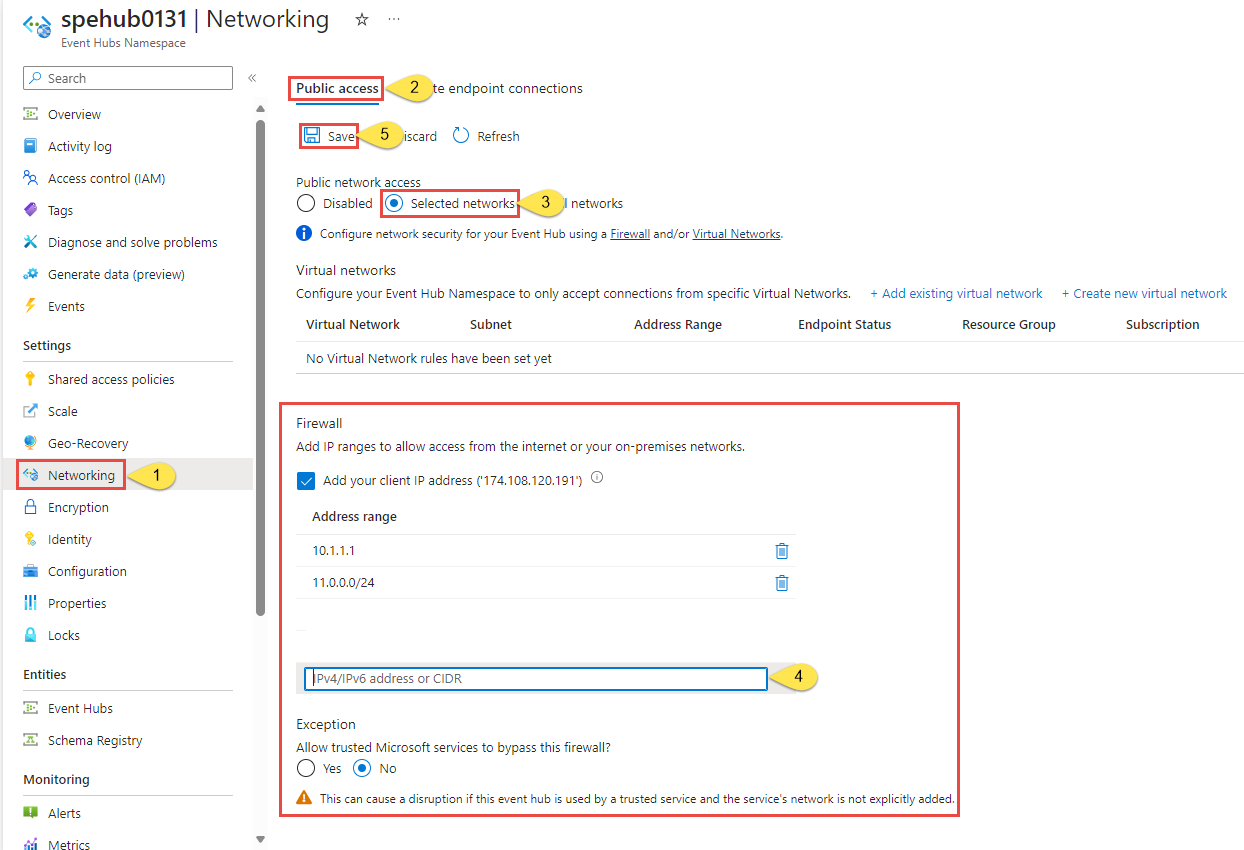
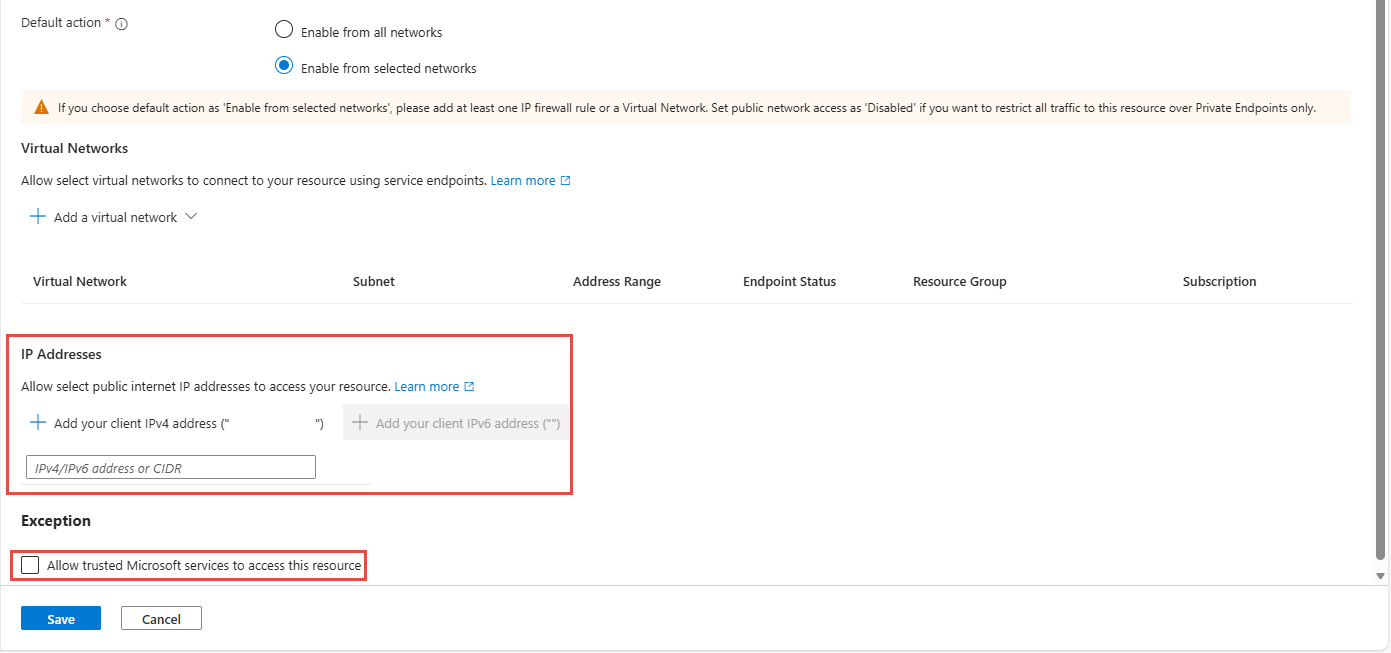
Event Hubs - Networking page updates

diff --git a/articles/event-hubs/event-hubs-ip-filtering.md b/articles/event-hubs/event-hubs-ip-filtering.md
@@ -1,9 +1,9 @@
 ---
 title: Configure IP Firewall Rules for Azure Event Hubs Namespaces
-description: Learn how to configure IP firewall rules for Azure Event Hubs namespaces to restrict access from specific IP addresses and CIDR ranges using Azure portal, CLI, or PowerShell.
+description: Learn how to configure IP firewall rules for Azure Event Hubs namespaces to restrict access to specific IP addresses and enhance your network security.
 #customer intent: As a network administrator, I want to configure IP firewall rules for my Azure Event Hubs namespace so that I can restrict access to only specific IP addresses and improve security
 ms.topic: how-to
-ms.date: 07/25/2025
+ms.date: 01/30/2026
 ms.custom:
   - devx-track-azurepowershell, devx-track-azurecli
   - ai-gen-docs-bap
@@ -14,55 +14,63 @@ ms.custom:
 ---
 
 # Allow access to Azure Event Hubs namespaces from specific IP addresses or ranges
-By default, Event Hubs namespaces are accessible from internet as long as the request comes with valid authentication and authorization. With IP firewall, you can restrict it further to only a set of IPv4 and IPv6 addresses or address ranges in [CIDR (Classless Inter-Domain Routing)](https://en.wikipedia.org/wiki/Classless_Inter-Domain_Routing) notation.
 
-This feature is helpful in scenarios in which Azure Event Hubs should be only accessible from certain well-known sites. Firewall rules enable you to configure rules to accept traffic originating from specific IPv4 and IPv6 addresses. For example, if you use Event Hubs with [Azure Express Route][express-route], you can create a **firewall rule** to allow traffic from only your on-premises infrastructure IP addresses. 
+By default, users can access Event Hubs namespaces from the internet as long as the request comes with valid authentication and authorization. By using the IP firewall, you can restrict access to only a set of IPv4 and IPv6 addresses or address ranges in [CIDR (Classless Inter-Domain Routing)](https://en.wikipedia.org/wiki/Classless_Inter-Domain_Routing) notation.
+
+This feature is helpful in scenarios where Azure Event Hubs should be accessible only from certain well-known sites. Firewall rules enable you to configure rules to accept traffic originating from specific IPv4 and IPv6 addresses. For example, if you use Event Hubs with [Azure Express Route][express-route], you can create a **firewall rule** to allow traffic from only your on-premises infrastructure IP addresses. 
 
 ## IP firewall rules
-You specify IP firewall rules at the Event Hubs namespace level. So, the rules apply to all connections from clients using any supported protocol. Any connection attempt from an IP address that doesn't match an allowed IP rule on the Event Hubs namespace is rejected as unauthorized. The response doesn't mention the IP rule. IP filter rules are applied in order, and the first rule that matches the IP address determines the accept or reject action.
+
+You specify IP firewall rules at the Event Hubs namespace level. The rules apply to all connections from clients using any supported protocol. The Event Hubs namespace rejects any connection attempt from an IP address that doesn't match an allowed IP rule as unauthorized. The response doesn't mention the IP rule. IP firewall rules are applied in order, and the first rule that matches the IP address determines the accept or reject action.
 
 
 ## Important points
+
 - This feature isn't supported in the **basic** tier.
-- Turning on firewall rules for your Event Hubs namespace blocks incoming requests by default, unless requests originate from a service operating from allowed public IP addresses. Requests that are blocked include the requests from other Azure services, from the Azure portal, from logging and metrics services, and so on. As an exception, you can allow access to Event Hubs resources from certain **trusted services** even when the IP filtering is enabled. For a list of trusted services, see [Trusted Microsoft services](#trusted-microsoft-services).
-- Specify **at least one IP firewall rule or virtual network rule** for the namespace to allow traffic only from the specified IP addresses or subnet of a virtual network. If there are no IP and virtual network rules, the namespace can be accessed over the public internet (using the access key).  
+- When you turn on firewall rules for your Event Hubs namespace, the firewall blocks incoming requests by default, unless requests originate from a service operating from allowed public IP addresses. Blocked requests include the requests from other Azure services, from the Azure portal, from logging and metrics services, and so on. As an exception, you can allow access to Event Hubs resources from certain **trusted services** even when the IP filtering is enabled. For a list of trusted services, see [Trusted Microsoft services](#trusted-microsoft-services).
+- Specify **at least one IP firewall rule or virtual network rule** for the namespace to allow traffic only from the specified IP addresses or subnet of a virtual network. If there are no IP and virtual network rules, users can access the namespace over the public internet (by using the access key).  
 
 
-## Configure firewall rules using Azure portal
+## Configure firewall rules using the Azure portal
 
-When creating a namespace, you can either allow public only (from all networks) or private only (only via private endpoints) access to the namespace. Once the namespace is created, you can allow access from specific IP addresses or from specific virtual networks (using network service endpoints). 
+When creating a namespace, you can either allow public only (from all networks) or private only (only via private endpoints) access to the namespace. Once you create the namespace, you can allow access from specific IP addresses or from specific virtual networks (by using network service endpoints). 
 
 ### Configure public access when creating a namespace
 To enable public access, select **Public access** on the **Networking** page of the namespace creation wizard. 
 
-:::image type="content" source="./media/event-hubs-firewall/create-namespace-public-access.png" alt-text="Screenshot showing the Networking page of the Create namespace wizard with Public access option selected.":::
+:::image type="content" source="./media/event-hubs-firewall/create-namespace-public-access.png" alt-text="Screenshot showing the Networking page of the Create namespace wizard with Public access option selected." lightbox="./media/event-hubs-firewall/create-namespace-public-access.png":::
 
-After you create the namespace, select **Networking** on the left menu of the **Event Hubs Namespace** page. You see that **All Networks** option is selected. You can select **Selected Networks** option and allow access from specific IP addresses or specific virtual networks. The next section provides you details on configuring IP firewall to specify the IP addresses from which the access is allowed. 
+After you create the namespace, select **Networking** in the left menu of the **Event Hubs Namespace** page. 
+
+By default, **Public network access** is enabled for the namespace for **all networks**.
+
+:::image type="content" source="./media/event-hubs-firewall/public-network-access.png" alt-text="Screenshot showing the Networking page of the Event Hubs namespace with Public network access enabled." lightbox="./media/event-hubs-firewall/public-network-access.png":::
+
+This option enables public access from all networks by using an **access key**. The namespace accepts connections from any IP address (using the access key). 
+
+The next section provides you details on configuring IP firewall rules to specify the IP addresses from which the access is allowed. 
 
 ### Configure IP firewall for an existing namespace
 This section shows you how to use the Azure portal to create IP firewall rules for an Event Hubs namespace. 
 
 1. Navigate to your **Event Hubs namespace** in the [Azure portal](https://portal.azure.com).
-4. Select **Networking** under **Settings** on the left menu. 
-1. On the **Networking** page, for **Public network access**, choose **Selected networks** option to allow access from only specified IP addresses. 
+1. Select **Networking** under **Settings** on the left menu. 
+1. On the **Networking** page, select **Manage** under **Public network access**.
+1. On the **Public network access** page, in the **Default action** section, select **Enable from selected networks** to allow access from only specified IP addresses.
 
-    Here are more details about options available in the **Public network access** page:
-    - **Disabled**. This option disables any public access to the namespace. The namespace is accessible only through [private endpoints](private-link-service.md). 
-    - **Selected networks**. This option enables public access to the namespace using an access key from selected networks. 
+    :::image type="content" source="./media/event-hubs-firewall/enable-selected-networks.png" alt-text="Screenshot showing the Public network access page with Enable from selected networks option selected." lightbox="./media/event-hubs-firewall/enable-selected-networks.png"::: 
 
-        > [!IMPORTANT]
-        > If you choose **Selected networks**, add at least one IP firewall rule or a virtual network that will have access to the namespace. Choose **Disabled** if you want to restrict all traffic to this namespace over [private endpoints](private-link-service.md) only.
-    - **All networks** (default). This option enables public access from all networks using an access key. If you select the **All networks** option, the event hub accepts connections from any IP address (using the access key). This setting is equivalent to a rule that accepts the 0.0.0.0/0 IP address range. 
-1. To restrict access to **specific IP addresses**, select **Selected networks** option, and then follow these steps: 
-    1. In the **Firewall** section, select **Add your client IP address** option to give your current client IP the access to the namespace. 
-    3. For **address range**, enter specific IPv4 or IPv6 addresses or address ranges in CIDR notation.
-    
-        > [!IMPORTANT]
-        > When the service starts supporting IPv6 connections in the future and clients automatically switch to using IPv6, your clients break if you have only IPv4 addresses, not IPv6 addresses. Therefore, we recommend that you add IPv6 addresses to the list of allowed IP addresses now so that your clients don't break when the service eventually switches to supporting IPv6. 
-    1. Specify whether you want to **allow trusted Microsoft services to bypass this firewall**. See [Trusted Microsoft services](#trusted-microsoft-services) for details. 
+    > [!IMPORTANT]
+    > If you choose **Selected networks**, add at least one IP firewall rule or a virtual network that has access to the namespace. Choose **Disabled** if you want to restrict all traffic to this namespace over [private endpoints](private-link-service.md) only.
+1. In the **IP Addresses** section, select **Add your client IP address** option to give your current client IP the access to the namespace. 
+1. For **address range**, enter specific IPv4 or IPv6 addresses or address ranges in CIDR notation.
 
-        :::image type="content" source="./media/event-hubs-firewall/firewall-selected-networks-trusted-access-disabled.png" lightbox="./media/event-hubs-firewall/firewall-selected-networks-trusted-access-disabled.png" alt-text="Firewall section highlighted in the Public access tab of the Networking page.":::
-3. Select **Save** on the toolbar to save the settings. Wait for a few minutes for the confirmation to show up on the portal notifications.
+    > [!IMPORTANT]
+    > We recommend that you add IPv6 addresses to the list of allowed IP addresses now so that your clients don't break when the service eventually switches to supporting only IPv6. 
+1. In the **Exception** section, specify whether you want to **allow trusted Microsoft services to bypass this firewall**. See [Trusted Microsoft services](#trusted-microsoft-services) for details. 
+
+    :::image type="content" source="./media/event-hubs-firewall/firewall-selected-networks-trusted-access-disabled.png" lightbox="./media/event-hubs-firewall/firewall-selected-networks-trusted-access-disabled.png" alt-text="Firewall section highlighted in the Public access tab of the Networking page.":::
+1. Select **Save** on the toolbar to save the settings. Wait for a few minutes for the confirmation to show up on the portal notifications.
 
     > [!NOTE]
     > To restrict access to specific virtual networks, see [Allow access from specific networks](event-hubs-service-endpoints.md).
@@ -70,14 +78,14 @@ This section shows you how to use the Azure portal to create IP firewall rules f
 [!INCLUDE [event-hubs-trusted-services](./includes/event-hubs-trusted-services.md)]
 
 
-## Configure firewall rules using Resource Manager templates
+## Configure firewall rules by using Resource Manager templates
 
 > [!IMPORTANT]
 > The Firewall feature isn't supported in the basic tier.
 
 The following Resource Manager template enables adding an IP filter rule to an existing Event Hubs namespace.
 
-**ipMask** in the template is a single IPv4 address or a block of IP addresses in CIDR notation. For example, in CIDR notation 70.37.104.0/24 represents the 256 IPv4 addresses from 70.37.104.0 to 70.37.104.255, with 24 indicating the number of significant prefix bits for the range.
+The **ipMask** in the template is a single IPv4 address or a block of IP addresses in CIDR notation. For example, in CIDR notation 70.37.104.0/24 represents the 256 IPv4 addresses from 70.37.104.0 to 70.37.104.255, with 24 indicating the number of significant prefix bits for the range.
 
 > [!NOTE]
 > The default value of the `defaultAction` is `Allow`. When adding virtual network or firewalls rules, make sure you set the `defaultAction` to `Deny`.
@@ -165,12 +173,12 @@ The following Resource Manager template enables adding an IP filter rule to an e
 To deploy the template, follow the instructions for [Azure Resource Manager][lnk-deploy].
 
 > [!IMPORTANT]
-> If there are no IP and virtual network rules, all the traffic flows into the namespace even if you set the `defaultAction` to `deny`. The namespace can be accessed over the public internet (using the access key). Specify at least one IP rule or virtual network rule for the namespace to allow traffic only from the specified IP addresses or subnet of a virtual network.  
+> If you don't add any IP or virtual network rules, all traffic flows into the namespace even if you set the `defaultAction` to `deny`. Users can access the namespace over the public internet (by using the access key). To allow traffic only from the specified IP addresses or subnet of a virtual network, specify at least one IP rule or virtual network rule for the namespace.  
 
-## Configure firewall rules using Azure CLI
+## Configure firewall rules by using Azure CLI
 Use [`az eventhubs namespace network-rule-set`](/cli/azure/eventhubs/namespace/network-rule-set) add, list, update, and remove commands to manage IP firewall rules for an Event Hubs namespace.
 
-## Configure firewall rules using Azure PowerShell
+## Configure firewall rules by using Azure PowerShell
 Use the [`Set-AzEventHubNetworkRuleSet`](/powershell/module/az.eventhub/set-azeventhubnetworkruleset) cmdlet to add one or more IP firewall rules. An example from the article:
 
 ```azurepowershell-interactive
@@ -188,20 +196,20 @@ Set-AzEventHubNetworkRuleSet -ResourceGroupName myResourceGroup -NamespaceName m
 
 ### REST API
 
-The default value of the `defaultAction` property was `Deny` for API version **2021-01-01-preview and earlier**. However, the deny rule isn't enforced unless you set IP filters or virtual network rules. That is, if you didn't have any IP filters or virtual network rules, it's treated as `Allow`. 
+For API versions **2021-01-01-preview and earlier**, the default value of the `defaultAction` property is `Deny`. However, the service doesn't enforce the deny rule unless you set IP filters or virtual network rules. If you don't set any IP filters or virtual network rules, the service treats the default action as `Allow`. 
 
-From API version **2021-06-01-preview onwards**, the default value of the `defaultAction` property is `Allow`, to accurately reflect the service-side enforcement. If the default action is set to `Deny`, IP filters and virtual network rules are enforced. If the default action is set to `Allow`, IP filters and virtual network rules aren't enforced. The service remembers the rules when you turn them off and then back on again. 
+From API version **2021-06-01-preview onwards**, the default value of the `defaultAction` property is `Allow`, which accurately reflects the service-side enforcement. If you set the default action to `Deny`, the service enforces IP filters and virtual network rules. If you set the default action to `Allow`, the service doesn't enforce IP filters and virtual network rules. The service remembers the rules when you turn them off and then back on again. 
 
-The API version **2021-06-01-preview onwards** also introduces a new property named `publicNetworkAccess`. If it's set to `Disabled`, operations are restricted to private links only. If it's set to `Enabled`, operations are allowed over the public internet. 
+API version **2021-06-01-preview onwards** also introduces a new property named `publicNetworkAccess`. If you set this property to `Disabled`, operations are restricted to private links only. If you set it to `Enabled`, operations are allowed over the public internet. 
 
 For more information about these properties, see [Create or Update Network Rule Set](/rest/api/eventhub/namespaces/create-or-update-network-rule-set) and [Create or Update Private Endpoint Connections](/rest/api/eventhub/private-endpoint-connections/create-or-update).
 
 > [!NOTE]
-> None of the above settings bypass validation of claims via SAS or Microsoft Entra authentication. The authentication check always runs after the service validates the network checks that are configured by `defaultAction`, `publicNetworkAccess`, `privateEndpointConnections` settings.
+> None of the preceding settings bypass validation of claims through SAS or Microsoft Entra authentication. The authentication check always runs after the service validates the network checks that the `defaultAction`, `publicNetworkAccess`, and `privateEndpointConnections` settings configure.
 
 ### Azure portal
 
-Azure portal always uses the latest API version to get and set properties. If you had configured your namespace using **2021-01-01-preview and earlier** with `defaultAction` set to `Deny`, and specified zero IP filters and virtual network rules, the portal would have previously checked **Selected Networks** on the **Networking** page of your namespace. Now, it checks the **All networks** option. 
+Azure portal always uses the latest API version to get and set properties. If you configured your namespace by using **2021-01-01-preview and earlier** versions with the `defaultAction` set to `Deny`, and you specified zero IP filters and virtual network rules, the portal previously checked **Selected Networks** on the **Networking** page of your namespace. Now, it checks the **All networks** option. 
 
 :::image type="content" source="./media/event-hubs-firewall/firewall-all-networks-selected.png" lightbox="./media/event-hubs-firewall/firewall-all-networks-selected.png" alt-text="Screenshot that shows the Public access page with the All networks option selected.":::
 
@@ -211,7 +219,7 @@ Azure portal always uses the latest API version to get and set properties. If yo
 
 ## Next steps
 
-For constraining access to Event Hubs to Azure virtual networks, see the following link:
+To constrain access to Event Hubs to Azure virtual networks, see the following article:
 
 - [Virtual Network Service Endpoints for Event Hubs][lnk-vnet]
 
